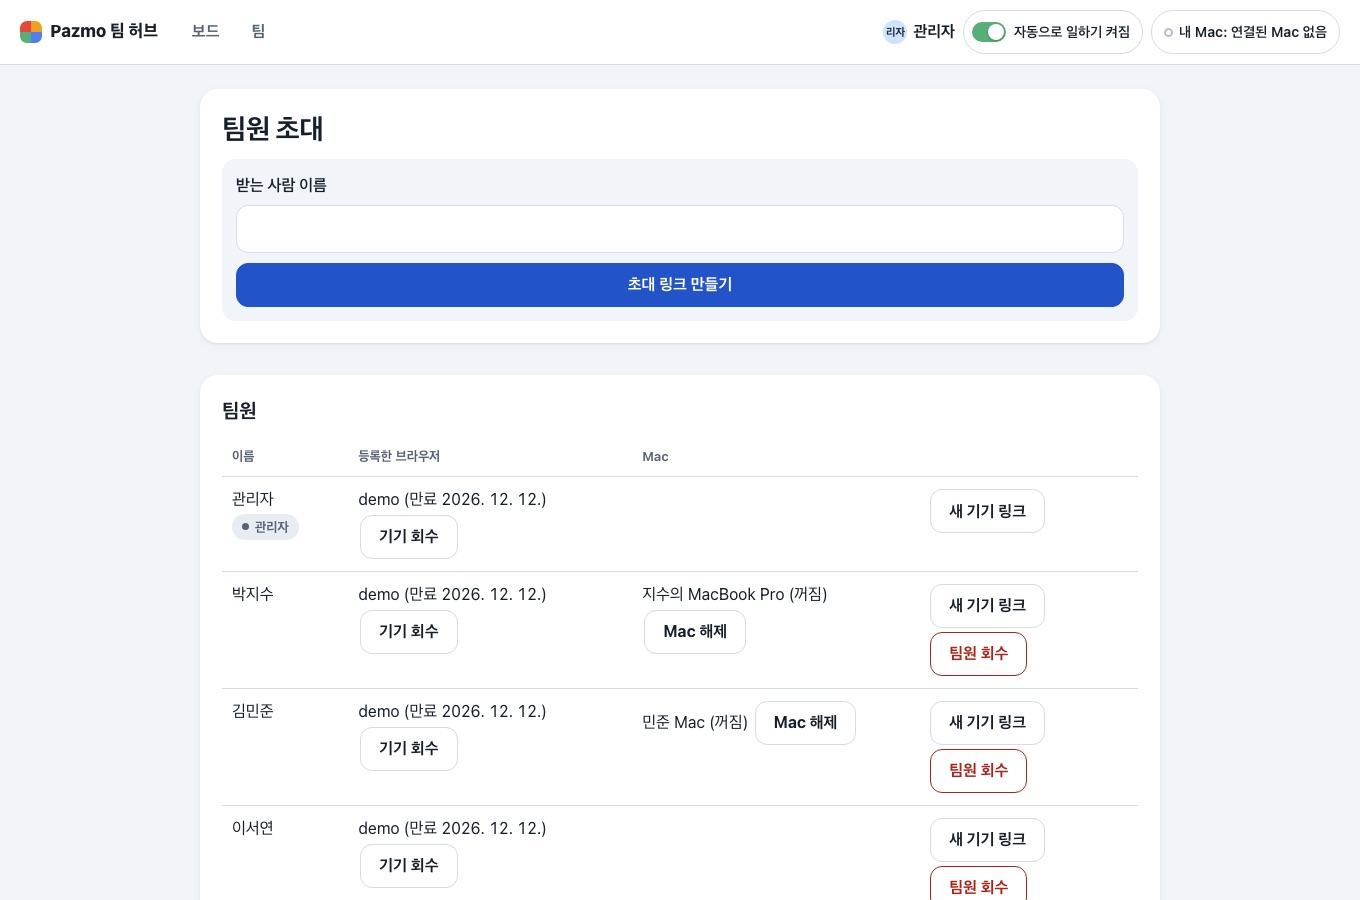
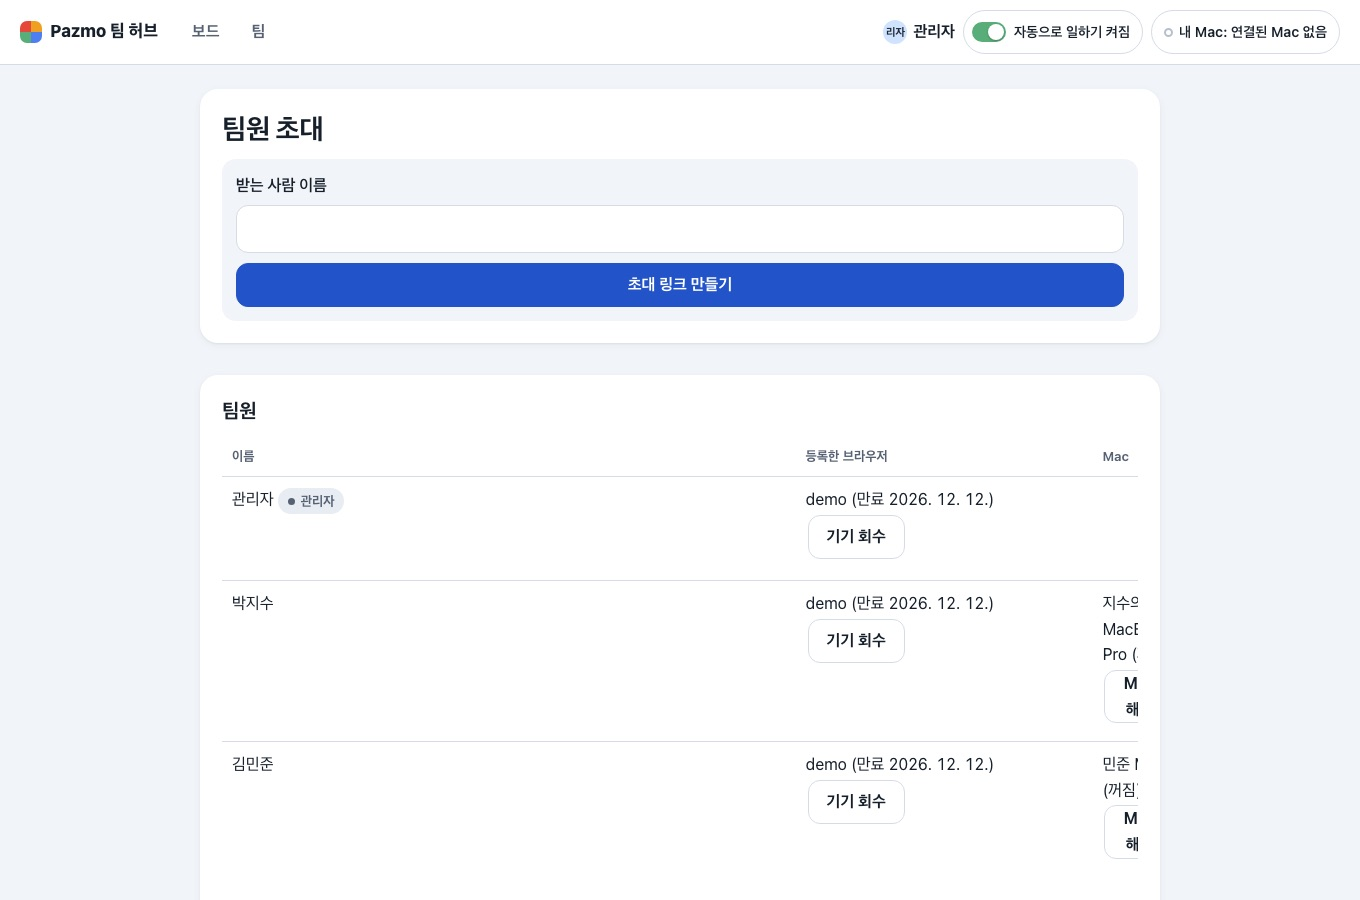
fix(hub): name each fold button's item, wrap long names, shape the resting Mac dot (U45 review 2)
- 기기 회수 names the browser and its day, Mac 해제 names the Mac; a revoked member's browsers
  read (끊김) and the row has no fold; my own row's note does not speak of 팀원 회수; the
  heading counts revoked members apart.
- Fold buttons wrap a long name inside the column (320px with a 40-letter name).
- A resting Mac (limit, locked) is a square dot: on, resting and off differ by shape.
- The switch shows short words aria-hidden and keeps the full words as one hidden span, so its
  accessible name is "자동으로 일하기 켜짐" at every width.
- Tests: escaping on /members and /repos, a revoked member's row, a one-owner repo, the dot
  shapes; the U45 header test no longer repeats the U40 one.

diff --git a/src/hub/pages.ts b/src/hub/pages.ts
@@ -39,11 +39,12 @@ nav a:hover{background:var(--tray);color:var(--fg)}nav a[aria-current=page]{colo
 button.switch{display:inline-flex;align-items:center;gap:8px;min-height:44px;padding:0 12px 0 8px;border-radius:999px;border:1px solid var(--line);background:var(--panel);color:var(--fg);font-size:14px;font-weight:600}
 .track{position:relative;width:34px;height:20px;border-radius:999px;background:var(--idle);flex:none}
 .track::after{content:"";position:absolute;top:2px;left:2px;width:16px;height:16px;border-radius:50%;background:var(--knob);box-shadow:0 1px 2px var(--knob-shadow);transition:left .15s}
+.switch .short{display:none}
 .switch[aria-pressed=true] .track{background:var(--done-bar)}.switch[aria-pressed=true] .track::after{left:16px}
 .macchip,.mac{display:inline-flex;align-items:center;gap:6px}.mac{font-size:14px;color:var(--muted)}
 .macchip{min-height:44px;padding:0 12px;border-radius:999px;border:1px solid var(--line);color:var(--fg);font-size:14px;font-weight:600;text-decoration:none}
 .dot{width:9px;height:9px;border-radius:50%;background:var(--idle);flex:none}
-.on .dot{background:var(--done-bar);box-shadow:0 0 0 3px var(--done-bg)}.rest .dot{background:var(--need-bar)}.off .dot{background:transparent;border:2px solid var(--idle)}
+.on .dot{background:var(--done-bar);box-shadow:0 0 0 3px var(--done-bg)}.rest .dot{background:var(--need-bar);border-radius:2px}.off .dot{background:transparent;border:2px solid var(--idle)}
 .av{display:inline-grid;place-items:center;width:24px;height:24px;border-radius:50%;font-size:11px;font-weight:700;letter-spacing:-.02em;color:var(--av-fg);flex:none;overflow:hidden;white-space:nowrap}
 .av0{background:var(--av0)}.av1{background:var(--av1)}.av2{background:var(--av2)}.av3{background:var(--av3)}.av4{background:var(--av4)}.av5{background:var(--av5)}.av6{background:var(--av6)}.av7{background:var(--av7)}
 main{max-width:1000px;margin:0 auto;padding:24px 20px 64px;display:grid;grid-template-columns:minmax(0,1fr);gap:32px}
@@ -121,7 +122,7 @@ progress::-webkit-progress-bar{background:var(--tray);border-radius:999px}progre
 .onoff{font-size:14px;font-weight:700}.onoff.on{color:var(--done)}.onoff.off{color:var(--muted)}
 ul.work{list-style:none;margin:0;padding:0;display:grid;grid-template-columns:minmax(0,1fr);gap:8px}ul.work>li{display:grid;grid-template-columns:minmax(0,1fr);gap:4px;padding:12px 14px;border-radius:12px;background:var(--bg)}
 ul.roster{list-style:none;margin:0;padding:0;display:grid;grid-template-columns:minmax(0,1fr)}ul.roster>li{display:grid;grid-template-columns:minmax(0,1fr);gap:4px;padding:14px 0;border-top:1px solid var(--line)}ul.roster>li:first-child{border-top:0;padding-top:0}
-details.manage .row{margin-top:8px}details.manage .note{font-size:14px;color:var(--muted)}
+details.manage .row{margin-top:8px}details.manage form.inline{max-width:100%}details.manage button{max-width:100%;min-width:0;overflow-wrap:anywhere;text-align:start;padding-block:6px}details.manage .note{font-size:14px;color:var(--muted)}
 .tiles{list-style:none;margin:0;padding:0;display:flex;flex-wrap:wrap;gap:8px}.tiles a{display:inline-flex;align-items:center;min-height:44px;padding:0 16px;border-radius:12px;background:var(--bg);color:var(--fg);font-weight:600;text-decoration:none}.tiles a:hover{background:var(--tray)}
 .callout{display:grid;grid-template-columns:minmax(0,1fr);gap:8px;padding:14px 16px;border-radius:14px;background:var(--stop-bg);color:var(--stop)}.callout pre{background:var(--panel);color:var(--fg);font-family:ui-monospace,SFMono-Regular,Menlo,monospace;font-size:14px}.callout summary{font-size:14px}
 .head form:not(.inline),section>form:not(.inline){background:var(--bg);border-radius:14px;padding:14px}.head h1{font-size:26px}
@@ -168,7 +169,8 @@ p.sprog{display:flex;flex-wrap:wrap;align-items:center;gap:8px;font-size:14px;co
 .taskboard .cols{margin-top:2px}
 @media (width > 860px) and (width <= 960px){.stages{gap:12px}.stage{padding:6px}.stage[data-stage=planning]{padding:4px}.stages .scard{padding:12px}.stages .scards{gap:6px}}
 @media (max-width:860px){header{padding:6px 12px;gap:4px 8px}.me{margin-left:auto;gap:4px}nav a{padding:0 10px}button.switch{padding:0 10px 0 6px;gap:6px}
-.brand .word,.person .name,.switch .long,.macchip .long{position:absolute;width:1px;height:1px;overflow:hidden;clip-path:inset(50%);white-space:nowrap}
+.switch .short{display:inline}
+.brand .word,.person .name,.switch .full,.macchip .long{position:absolute;width:1px;height:1px;overflow:hidden;clip-path:inset(50%);white-space:nowrap}
 .person,.macchip{min-width:44px;justify-content:center;padding:0}.brand{min-width:44px;justify-content:center}
 main{padding:16px 14px 48px}section{padding:18px}
 .cols{grid-template-columns:minmax(0,1fr);gap:16px}.col:has(>.cards:empty){flex-direction:row;align-items:center;justify-content:space-between;padding:6px 10px}.col:has(>.cards:empty) h3{flex:1}.col .cards:empty{display:none}
@@ -271,7 +273,7 @@ export function inColumn(at: number, now = Date.now()): string {
 function boardHeader(me: Member, chrome: Chrome): string {
   const on = chrome.autoWork === true;
   const sw = chrome.csrf
-    ? `<form class="switch" method="post" action="/me/auto-work">${csrfField(chrome.csrf)}<input type="hidden" name="on" value="${on ? "0" : "1"}"><input type="hidden" name="back" value="${esc(chrome.path ?? "/")}"><button class="switch" aria-pressed="${on}"><span class="track" aria-hidden="true"></span><span class="label">자동<span class="long">으로 일하기</span> ${on ? "켜짐" : "꺼짐"}</span></button></form>`
+    ? `<form class="switch" method="post" action="/me/auto-work">${csrfField(chrome.csrf)}<input type="hidden" name="on" value="${on ? "0" : "1"}"><input type="hidden" name="back" value="${esc(chrome.path ?? "/")}"><button class="switch" aria-pressed="${on}"><span class="track" aria-hidden="true"></span><span class="short" aria-hidden="true">자동 ${on ? "켜짐" : "꺼짐"}</span><span class="full">자동으로 일하기 ${on ? "켜짐" : "꺼짐"}</span></button></form>`
     : "";
   const mac = chrome.mac ? macChip(chrome.mac) : "";
   const here = menuOf(chrome.path);
@@ -422,22 +424,23 @@ export function members(me: Member, csrf: string, list: MemberView[], chrome: Ch
   const rows = list
     .map((m) => {
       const browsers = m.devices.length
-        ? m.devices.map((d) => (d.revoked ? `${esc(d.label)}(끊김)` : `${esc(d.label)} · ${esc(teamDay(d.expiresAt))}까지`)).join(", ")
+        ? m.devices.map((d) => (d.revoked || m.revoked ? `${esc(d.label)}(끊김)` : `${esc(d.label)} · ${esc(teamDay(d.expiresAt))}까지`)).join(", ")
         : "없음";
       const macs = m.macs.length ? m.macs.map((k) => `${esc(k.name)} (${esc(macState(k))})`).join(", ") : "없음";
       const actions =
         button(`/members/${m.id}/device-invite`, csrf, "새 기기 링크", "secondary") +
-        m.devices.filter((d) => !d.revoked).map((d) => button(`/devices/${d.id}/revoke`, csrf, `기기 회수: ${d.label}`, "secondary")).join("") +
-        m.macs.map((k) => button(`/macs/${k.id}/revoke`, csrf, "Mac 해제", "secondary")).join("") +
+        m.devices.filter((d) => !d.revoked).map((d) => button(`/devices/${d.id}/revoke`, csrf, `기기 회수: ${d.label} (${teamDay(d.expiresAt)}까지)`, "secondary")).join("") +
+        m.macs.map((k) => button(`/macs/${k.id}/revoke`, csrf, `Mac 해제: ${k.name}`, "secondary")).join("") +
         (m.id === me.id ? "" : button(`/members/${m.id}/revoke`, csrf, "팀원 회수", "danger"));
       const fold = m.revoked
         ? ""
-        : `<details class="manage"><summary>관리</summary><p class="note">기기를 회수하면 그 브라우저는 새 기기 링크로 다시 들어와야 합니다. 팀원을 회수하면 그 사람의 Office 연결과 Mac도 끊기고, 되돌릴 수 없습니다.</p><div class="row">${actions}</div></details>`;
+        : `<details class="manage"><summary>관리</summary><p class="note">기기를 회수하면 그 브라우저는 새 기기 링크로 다시 들어와야 합니다.${m.id === me.id ? "" : " 팀원을 회수하면 그 사람의 Office 연결과 Mac도 끊기고, 되돌릴 수 없습니다."}</p><div class="row">${actions}</div></details>`;
       return `<li class="member"><p class="row"><span class="person">${avatar(m)}${esc(m.name)}</span>${m.admin ? '<span class="pill">관리자</span>' : ""}${m.revoked ? '<span class="pill">회수됨</span>' : ""}</p><p class="muted">브라우저: ${browsers}</p><p class="muted">Mac: ${macs}</p>${fold}</li>`;
     })
     .join("");
-  const live = list.filter((m) => !m.revoked).length;
-  return layout("팀원·초대", me, `<section><h1>팀원 초대</h1><form method="post" action="/invites">${csrfField(csrf)}<label>받는 사람 이름<input name="name" required maxlength="40"></label><button>초대 링크 만들기</button></form></section><section><h2>팀원 ${live}명</h2><ul class="roster">${rows}</ul></section>`, chrome);
+  const live = list.filter((m) => !m.revoked).length,
+    gone = list.length - live;
+  return layout("팀원·초대", me, `<section><h1>팀원 초대</h1><form method="post" action="/invites">${csrfField(csrf)}<label>받는 사람 이름<input name="name" required maxlength="40"></label><button>초대 링크 만들기</button></form></section><section><h2>팀원 ${live}명${gone ? ` · 회수됨 ${gone}명` : ""}</h2><ul class="roster">${rows}</ul></section>`, chrome);
 }
 export function mac(me: Member, csrf: string, o: { macs: MacView[]; install: string | null; approved: boolean }, chrome: Chrome = {}) {
   const done = o.approved ? `<section role="status"><h2>허용했습니다. 터미널로 돌아가세요</h2><p>설치가 끝나고 Office가 켜지면 아래 표에서 내 Mac의 상태를 볼 수 있습니다.</p></section>` : "";
